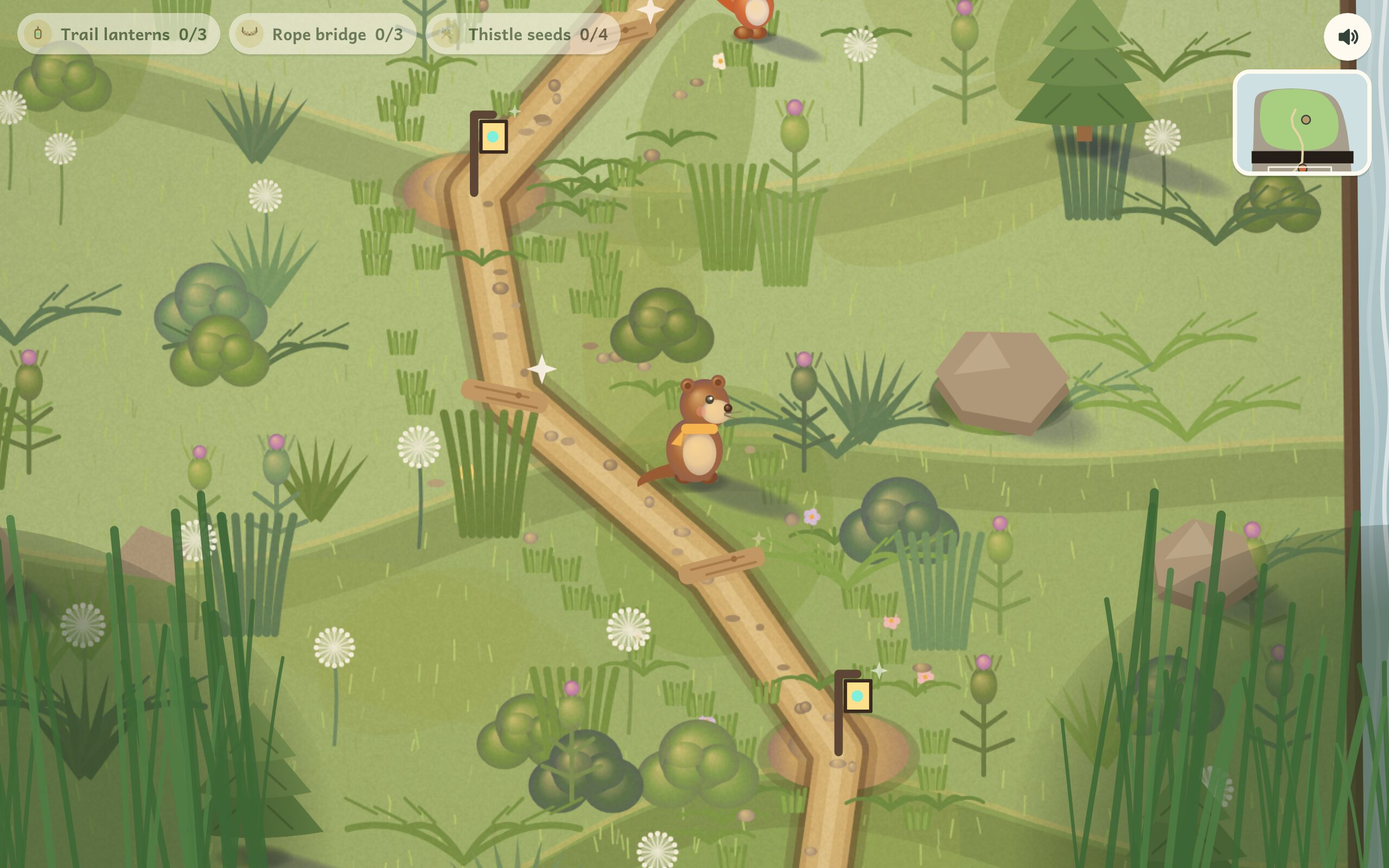
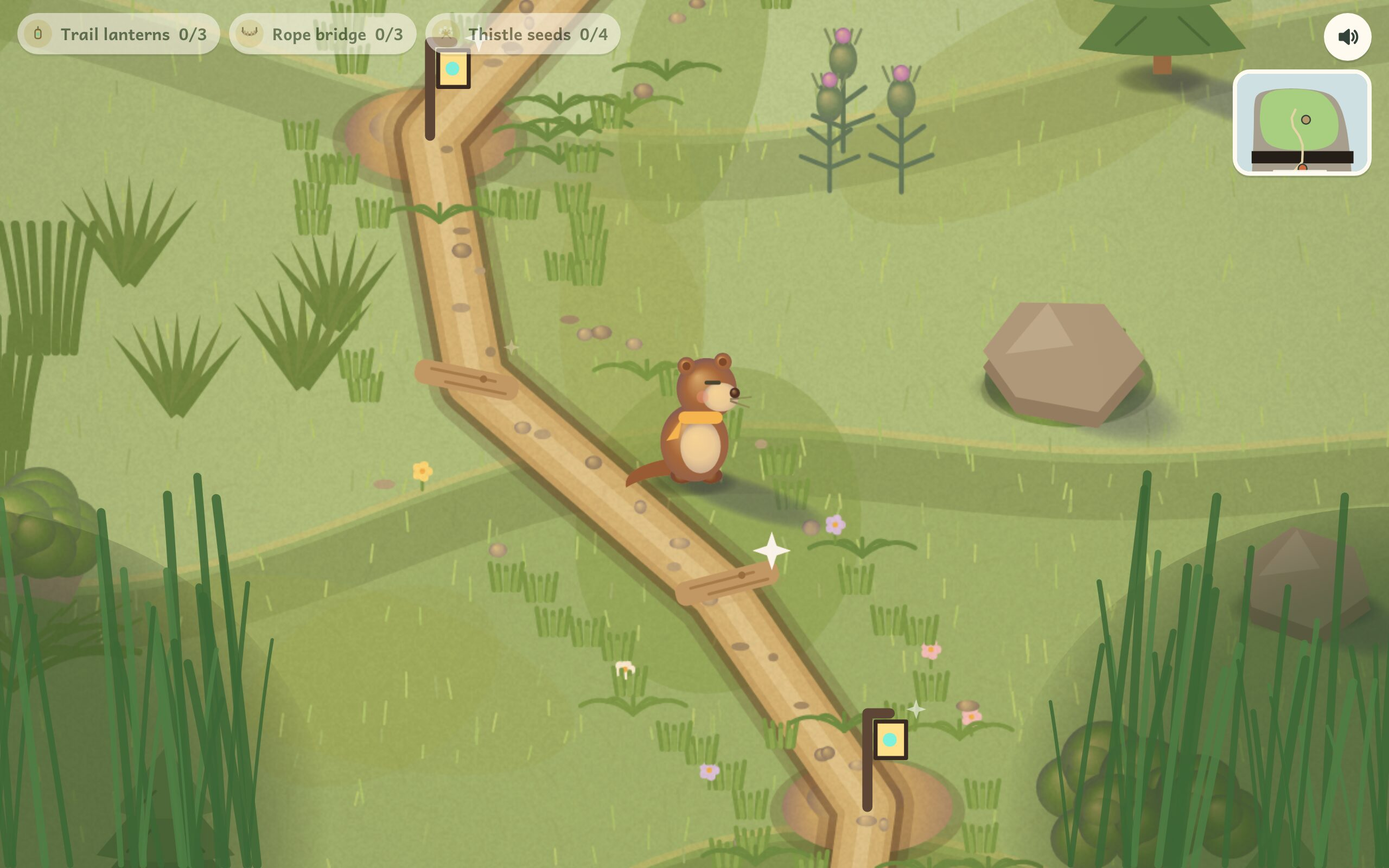
Highland: cluster foliage into patches, zoom the climb in
The dense random scatter read as messy — a different plant every few
pixels. Grow foliage in patches of a single type (and colour) with open
ground between, so the styles ease in and out like real vegetation, and
thin the overall count. Also tighten the climb's camera (scene zoom
1.25 -> 1.5) so there's less in the frame and it feels like walking a
path, not reading a map. Density is now just the patch count / plants-
per-patch if we want more or less lushness. No errors.

Claude-Session: https://claude.ai/code/session_01T6a2bmevT4fqcgfXDC9gkZ

diff --git a/stories/pips-island/highland.js b/stories/pips-island/highland.js
@@ -183,29 +183,36 @@ function hNook(x,y,s){ ell(x,y+5,48*s,20*s,'rgba(38,56,34,.2)');
   for (let i=-1;i<=1;i++){ const hx=x+i*22*s, hy=y+4*s; ctx.fillStyle='#2b211c'; ctx.beginPath(); ctx.moveTo(hx-9*s,hy); ctx.quadraticCurveTo(hx-9*s,hy-18*s,hx,hy-18*s); ctx.quadraticCurveTo(hx+9*s,hy-18*s,hx+9*s,hy); ctx.closePath(); ctx.fill();
     ctx.fillStyle='rgba(255,246,214,.12)'; ctx.beginPath(); ctx.ellipse(hx,hy-4*s,6*s,8*s,0,0,Math.PI*2); ctx.fill(); }
   ctx.strokeStyle='#5f9150'; ctx.lineWidth=2.4*s; ctx.lineCap='round'; for (let i=-3;i<=3;i++){ ctx.beginPath(); ctx.moveTo(x+i*9*s,y-16*s); ctx.lineTo(x+i*10*s,y-27*s); ctx.stroke(); } }
-// Dense, varied, depth-sorted foliage over the slope: smaller/paler far up, bigger/darker near the bottom, so
-// the climb reads as a path threading through layered overgrowth with little nooks and crannies.
+// Foliage grows in patches of a single type with open ground between (so the styles ease in and out instead of
+// a different random plant every few pixels), depth-sorted so far patches are small/pale and near ones big/dark.
 function drawHighlandFoliage(){
-  const R = rng(808), spots = [];
-  for (let i=0;i<680;i++){
-    const x = 170 + R()*1360, y = 250 + R()*2210;
-    if (!insidePoly(MOUNTAIN, x, y, 18) || inGorge(x,y)) continue;
-    if (Math.abs(x - fallX(y)) < FALL.w/2 + 34 && y > FALL.lip - 50) continue;   // keep out of the waterfall
-    const nearPath = onTrailPath(x,y) || inClearing(x,y);
-    if (nearPath && R() < 0.9) continue;                                          // path stays mostly clear
-    if (insidePoly(CROWN, x, y, 12) && R() < 0.5) continue;                        // crown a bit more open
-    spots.push([x,y]);
+  const R = rng(808);
+  const ok = (x,y,m) => insidePoly(MOUNTAIN,x,y,m) && !inGorge(x,y) && !(Math.abs(x-fallX(y)) < FALL.w/2+40 && y>FALL.lip-60);
+  // scatter a modest number of patch centres, each one plant type and one colour
+  const patches = [];
+  for (let i=0;i<46;i++){
+    const x = 190 + R()*1320, y = 280 + R()*2160;
+    if (!ok(x,y,44)) continue;
+    if (onTrailPath(x,y) || inClearing(x,y)) { if (R()<0.75) continue; }     // keep the path mostly clear
+    if (insidePoly(CROWN,x,y,24) && R()<0.55) continue;                       // crown stays more open
+    const type = Math.floor(R()*PLANT_FNS.length), green = H_GREENS[(type + (R()<0.5?0:3)) % H_GREENS.length];
+    patches.push({ x, y, type, green, r: 34+R()*58, n: 3+Math.floor(R()*4) });
   }
-  spots.sort((a,b) => a[1]-b[1]);                                                  // far (top) first → near (bottom) on top
-  for (const [x,y] of spots){
-    const depth = Math.max(0, Math.min(1, (y-250)/2210));                          // 0 far .. 1 near
-    const s = 0.45 + depth*0.95 + R()*0.3;
-    let c = H_GREENS[Math.floor(R()*H_GREENS.length)];
-    c = depth > 0.58 ? mixHex(c, '#2c4034', (depth-0.58)*0.75) : mixHex(c, '#cfe0d4', (0.5-depth)*0.5);   // near darker, far hazier
-    PLANT_FNS[Math.floor(R()*PLANT_FNS.length)](x, y, s, c);
+  // grow each patch, collect plants, then draw back-to-front
+  const plants = [];
+  for (const p of patches) for (let k=0;k<p.n;k++){
+    const a=R()*6.28, rr=Math.sqrt(R())*p.r, x=p.x+Math.cos(a)*rr, y=p.y+Math.sin(a)*rr*0.7;
+    if (!ok(x,y,16) || onTrailPath(x,y)) continue;
+    plants.push({ x, y, type:p.type, green:p.green });
   }
-  // a few burrow nooks tucked beside the path
-  for (const [x,y,s] of [[612,1150,1],[1000,1452,0.9],[560,2150,1.05],[988,860,0.85]]) if (!onTrailPath(x,y)) hNook(x,y,s);
+  plants.sort((a,b)=>a.y-b.y);
+  for (const pl of plants){
+    const depth = Math.max(0, Math.min(1, (pl.y-280)/2160)), s = 0.5 + depth*0.85 + R()*0.22;
+    const c = depth > 0.58 ? mixHex(pl.green, '#2c4034', (depth-0.58)*0.7) : mixHex(pl.green, '#cfe0d4', (0.5-depth)*0.5);
+    PLANT_FNS[pl.type](pl.x, pl.y, s, c);
+  }
+  // a couple of burrow nooks tucked beside the path
+  for (const [x,y,s] of [[1004,1452,0.9],[560,2150,1.05]]) if (!onTrailPath(x,y)) hNook(x,y,s);
 }
 // The slope as overlapping rolling-hill bands that recede into haze (Old Man's Journey): each is a flat green
 // plane with a lit crest and a soft shadow where the hill in front of it tucks over — far ones paler and cooler,

diff --git a/stories/pips-island/update.js b/stories/pips-island/update.js
@@ -122,8 +122,8 @@ function update(dt){
   const [SW, SH] = sceneDims(S.scene);
   const showing = !!S.show && S.show.t < 5.0;
   const fitZ = Math.min(innerWidth/(CW*0.95), (innerHeight-90)/(CH*0.95));
-  // the climb is framed a little tighter so the path and its edges read, and it feels like a path, not a map
-  const sceneZoom = S.scene==='highland' ? 1.25 : 1;
+  // the climb is framed tighter so there's less in the frame and it feels like a path, not a map
+  const sceneZoom = S.scene==='highland' ? 1.5 : 1;
   const zT = (showing ? Math.min(cam.baseZ, fitZ) : cam.baseZ) * sceneZoom;
   if (Math.abs(cam.z - zT) > 0.0005) { cam.z += (zT - cam.z)*Math.min(1, dt*2.4); cam.vw = innerWidth/cam.z; cam.vh = innerHeight/cam.z; }
   // When a dialog is open, frame Pip in the space between the top HUD and the dialog card.
